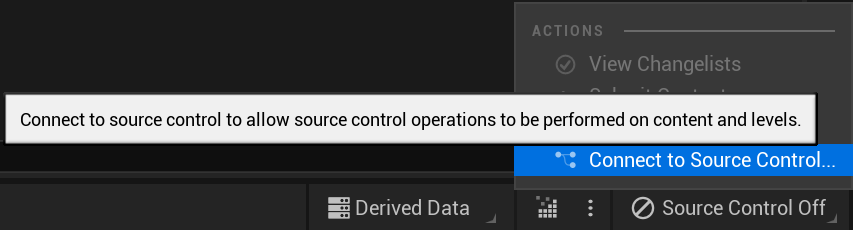
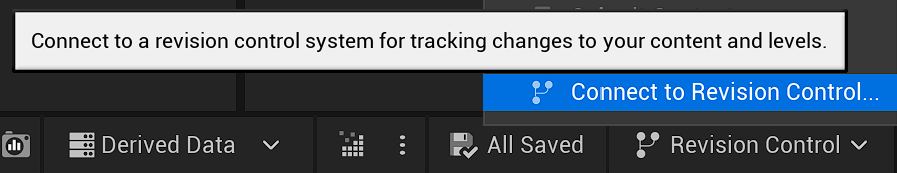
This plugin is now also distributed in Unreal Engine Marketplace as a Code Plugin
https://www.unrealengine.com/marketplace/product/unity-version-control-plastic-scm

- Procedure to Setup from Marketplace
- New and updated screenshots
- Some more rewording and simplifications

diff --git a/README.md b/README.md
@@ -4,12 +4,15 @@ Unity Version Control (formerly Plastic SCM) plugin for Unreal Engine
 [![release](https://img.shields.io/github/release/PlasticSCM/UEPlasticPlugin.svg)](https://github.com/PlasticSCM/UEPlasticPlugin/releases)
 
 This is the **official [Unity Version Control (formerly Plastic SCM)](https://unity.com/solutions/version-control) plugin for Unreal Engine 4 & 5** (UE 4.11 to 4.27, and UE 5.0 to 5.3).
-An old version 1.4.6+ was integrated in Unreal Engine 4.24 and has been shipping with it up to UE 5.0.
-More recent versions have been integrated in Unreal Engine 5.1 and above.
-But if your project is of a certain size, chances are you can benefit from upgrading manually to a version we provide from Github
-in order to benefit from the performance improvements, bugfixes and changes we have made since then.
 
-It is not intended to replace the [Unity Version Control Desktop Client](https://docs.plasticscm.com/gui/plastic-scm-version-control-gui-guide)
+It is now [distributed in Unreal Engine Marketplace as a Code Plugin ![Unity Version Control in the Unreal Engine Marketplace](Screenshots/Marketplace_UnityVersionControl.png)](https://www.unrealengine.com/marketplace/product/unity-version-control-plastic-scm)
+
+As a general rule, the Marketplace and GitHub versions of the plugin will always be the most up-to-date and recent versions.
+They're easier for us to patch by applying a hotfix, in case a bug is raised and something broken must be fixed quickly.
+
+However, you can of course still use the "Plastic SCM" in-engine integration in Unreal.
+
+This plugin is not intended to replace the [Desktop Client](https://docs.plasticscm.com/gui/plastic-scm-version-control-gui-guide)
 or [command line interface "cm"](https://docs.unity.com/ugs/en-us/manual/devops/manual/uvcs-cli/version-control-cli).
 It is a complementary tool improving efficiency in your daily workflow with assets in Editor.
 
@@ -18,6 +21,7 @@ It also helps import an existing Unreal Project into source control, with approp
 Since Unreal does not manage C++ source code, but only assets, the plugin is especially useful for GDs and artists.
 
 ## Table of Contents
+
  - [User Guide](#user-guide)
    - [Plugin Setup](#plugin-setup)
    - [Project Setup](#project-setup)
@@ -51,7 +55,10 @@ Since Unreal does not manage C++ source code, but only assets, the plugin is esp
 
 ### Plugin Setup
 
-#### Unreal default version of the plugin
+#### In-Engine version of the plugin
+
+Having a version of "Plastic SCM" integrated in-Engine helps with discoverability and it is the easiest way to get started with Unity Version Control.
+However the integrated version will always be lagging behind the latest release in Github and the Marketplace.
 
 - UE4.24 to 4.27 shipped with an old version 1.4.6 of this plugin
 - UE5.0 shipped with the same outdated version 1.4.6, not performing well overall with UE5, especially on OFPA
@@ -59,16 +66,27 @@ Since Unreal does not manage C++ source code, but only assets, the plugin is esp
 - UE5.2 shipped with the version 1.8.0 with support for the Shelves in the renamed View Changes window
 - UE5.3 shipped with the same version 1.8.0
 
-**Why?**: Why is it integrated, as opposed to, eg. being shared through the Marketplace?
+#### Install from Unreal Engine Marketplace
 
-It helps with discoverability of the plugin, and it is the easiest way to get started with Unity Version Control in Unreal Engine.
-But it will always be lagging somewhat behind the latest release in Github.
+As a general rule, the Marketplace and GitHub versions of the plugin will always be the most up-to-date and recent versions.
+They're easier for us to patch by applying a hotfix, in case a bug is raised and something broken must be fixed quickly.
 
-#### Manual update from the latest release in Github
+[In the Unreal Engine Marketplace, the Unity Version Control plugin supports Engine Versions 5.1 to 5.3](https://www.unrealengine.com/marketplace/product/unity-version-control-plastic-scm)
 
-**Why?**: Why would you update to latest version in Github?
+ 1. Click on the "Free" or "Add to cart" button in the Marketplace page and complete the checkout process.*
+[!["Free" and "Add to cart" buttons](Screenshots/Marketplace_FreeAddToCart.png)](https://www.unrealengine.com/marketplace/product/unity-version-control-plastic-scm)
+ 2. Click the "Open in Launcher" button
+[!["Open in Launcher" button](Screenshots/Marketplace_OpenInLauncher.png)](https://www.unrealengine.com/marketplace/product/unity-version-control-plastic-scm)
+ 3. Click the "Install to Engine" button, select the Unreal Editor version for your project, then download and install the files.
+[!["Install to Engine" button](Screenshots/Launcher_InstallToEngine.png)](https://www.unrealengine.com/marketplace/product/unity-version-control-plastic-scm)
+ 4. In your project, navigate to "Edit -> Plugins" and in "Installed" plugins, tick to enable "Unity Version Control", and restart the Unreal Editor
+![Enable the plugin in the Plugins Manager](Screenshots/PluginsManager_InstalledPlugins.png)
+ 5. Navigate to "Revision Control -> Connect to Revision Control" and for the "Provider" select "UnityVersionControl"
+![Source Control Connect](Screenshots/UEPlasticPlugin-SourceControlDisabled.png)
 
-If you want the latest features, performance improvements and bug fixes that are missing from Unreal integrated plugin.
+#### Install from releases in Github
+
+[![release](https://img.shields.io/github/release/PlasticSCM/UEPlasticPlugin.svg)](https://github.com/PlasticSCM/UEPlasticPlugin/releases)
 
  1. Download the [latest binary release UE5PlasticPlugin-x.x.x.zip](https://github.com/PlasticSCM/UEPlasticPlugin/releases) targeting your UE5 version (resp UE4).
  2. Either:
@@ -85,9 +103,9 @@ If you want the latest features, performance improvements and bug fixes that are
         This is the way to enable Unity Version Control for all Unreal Engine projects on the machine.
  3. Then, launch your Unreal project, click on the Source Control icon "Connect to Source", select "Plastic SCM".
 
-#### How to build from sources
+#### Build from sources
 
-**Why?**: Why would you build from sources? It enable you to test features before they are released, debug issues, and contribute. It's required if you have your own fork of Unreal Engine.
+Building from sources enable you to test features before they are released, debug issues, and contribute. It's required if you have your own fork of Unreal Engine.
 
 If your project is already a C++ project, you only have to re-generate Visual Studio project files (step 4 below) and the plugin will get rebuilt the next time you compile your project.
 
@@ -140,7 +158,7 @@ and are saved locally in `Saved\Config\WindowsEditor\SourceControlSettings.ini`.
 
 - BinaryPath: Path to the Unity Version Control Command Line tool 'cm' binary. Default is good if the cli is in the PATH. Can be changed to an absolute path to the cm executable if needed.
 - UpdateStatusAtStartup: Triggers an asynchronous "Update Status" operation at Editor startup. Can take quite some time on big projects, with no source control status available in the meantime.
-- UpdateStatusOtherBranches: Enable Update status to detect more recent changes on other branches in order to display the "Changed In Other Branch" warnings and icon. 
+- UpdateStatusOtherBranches: Enable Update status to detect more recent changes on other branches in order to display the "Changed In Other Branch" warnings and icon.
 - EnableVerboseLogs: Override LogSourceControl default verbosity level to Verbose (except if already set to VeryVerbose).
 
 ##### Add an ignore.conf file
@@ -276,7 +294,7 @@ Plastic SCM forums:
 ![Redirector added by a Move](Screenshots/Icons/UEPlasticPlugin-Redirector.png)
 ![Moved/Renamed](Screenshots/Icons/UEPlasticPlugin-Renamed.png)
 
- 5. Locally **Changed** without checkout, or **Private** ie not source controlled 
+ 5. Locally **Changed** without checkout, or **Private** ie not source controlled
  6. **Checked-out** exclusively to prevent others from making modifications (if Locks are enabled on the server)
  7. **Redirector** added by a Move
  8. **Moved** or Renamed
@@ -372,7 +390,7 @@ Tooltip in the Content Browser when an asset has been modified in another branch
 
 Warning when trying to checkout an asset that has been modified in another branch:
 ![Warning on checkout for an asset modified in another branch](Screenshots/UEPlasticPlugin-BranchModification-WarningOnCheckout.png)
- 
+
 Warning when trying to modify an asset that has been modified in another branch:
 ![Warning on modification for an asset modified in another branch](Screenshots/UEPlasticPlugin-BranchModification-WarningOnModification.png)
 
@@ -483,7 +501,7 @@ The command line needs the quoted path to the UnrealEditor.exe, the quoted patch
 
     "C:\Program Files\Epic Games\UE_5.0\Engine\Binaries\Win64\UnrealEditor.exe" "C:\wkspaces\ProjectName\ProjectName.uproject" -diff "@sourcefile" "@destinationfile"
 
-eg: 
+eg:
 
     "C:\Program Files\Epic Games\UE_5.2\Engine\Binaries\Win64\UnrealEditor.exe" "C:\UnitySrc\UE5UnityVCSDevEnv\UE5UnityVCSDevEnv.uproject" -diff "@sourcefile" "@destinationfile"
 
@@ -598,7 +616,7 @@ You can also use the [Github issue-tracker](https://github.com/SRombauts/UEPlast
  3. Describe precisely your issue
  4. Add reproduction steps, if possible on a basic template project
  5. Post log files whenever possible (see [enable debug logs](#enable-debug-logs) to get the most of it)
-    1. Unreal Log file **`<ProjectName>/Saved/Logs/ProjectName.log`** 
+    1. Unreal Log file **`<ProjectName>/Saved/Logs/ProjectName.log`**
     2. cm debug log file typically from **`<LOCALAPPDATA>\plastic4\logs\cm.log.txt`**
 
 ### Use merge requests
